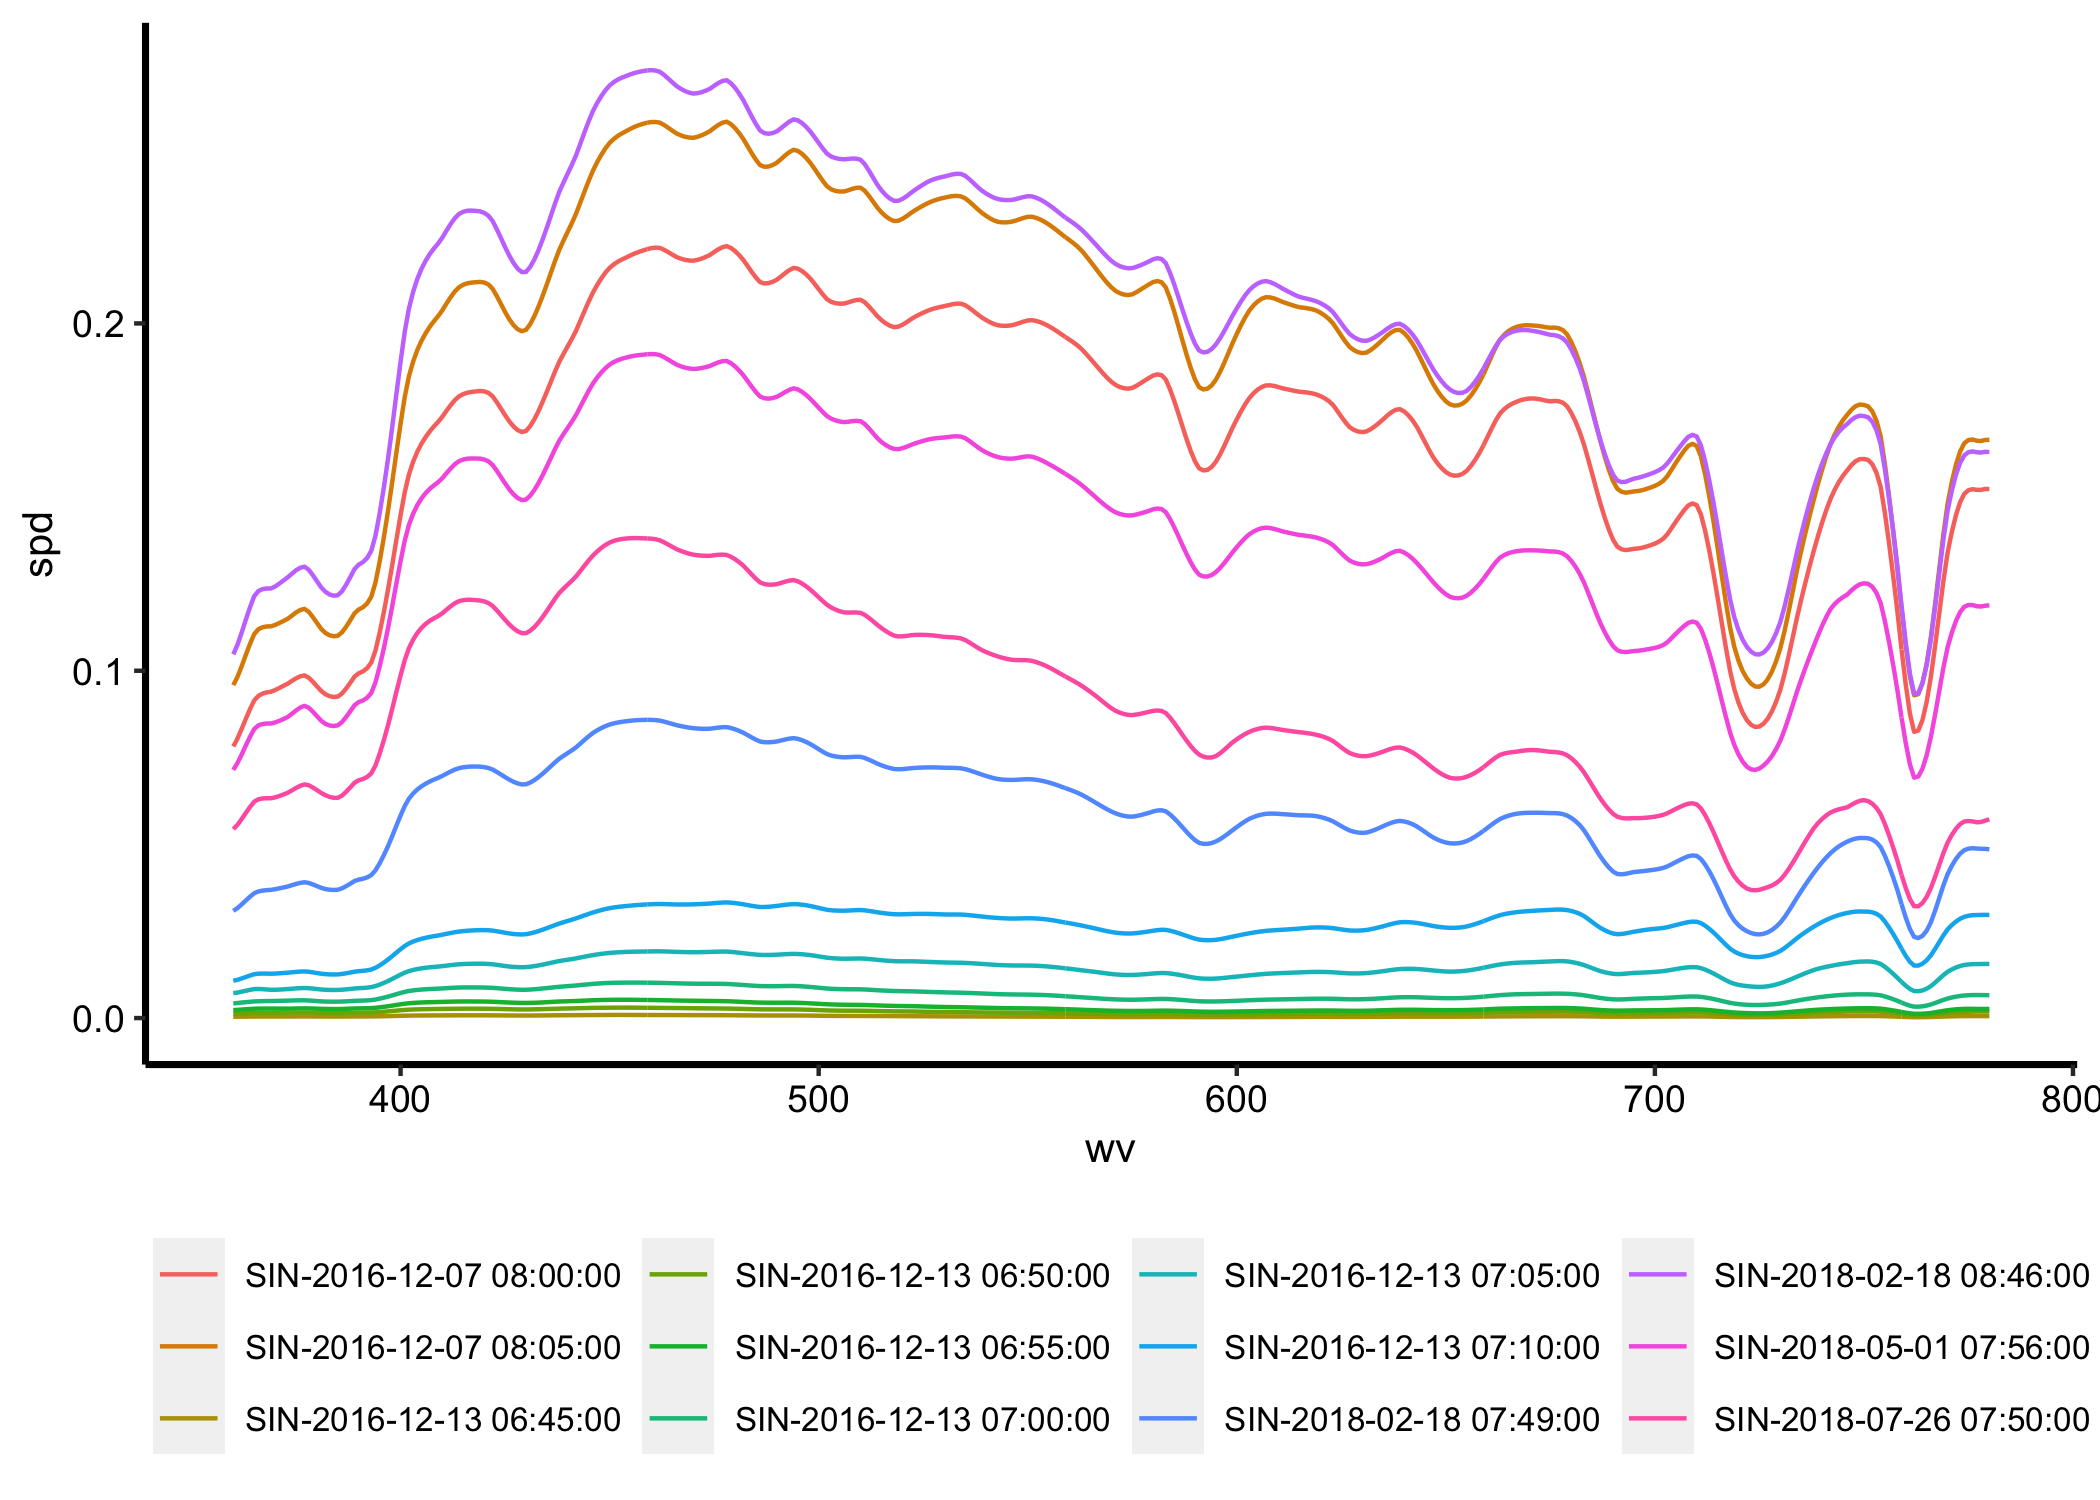
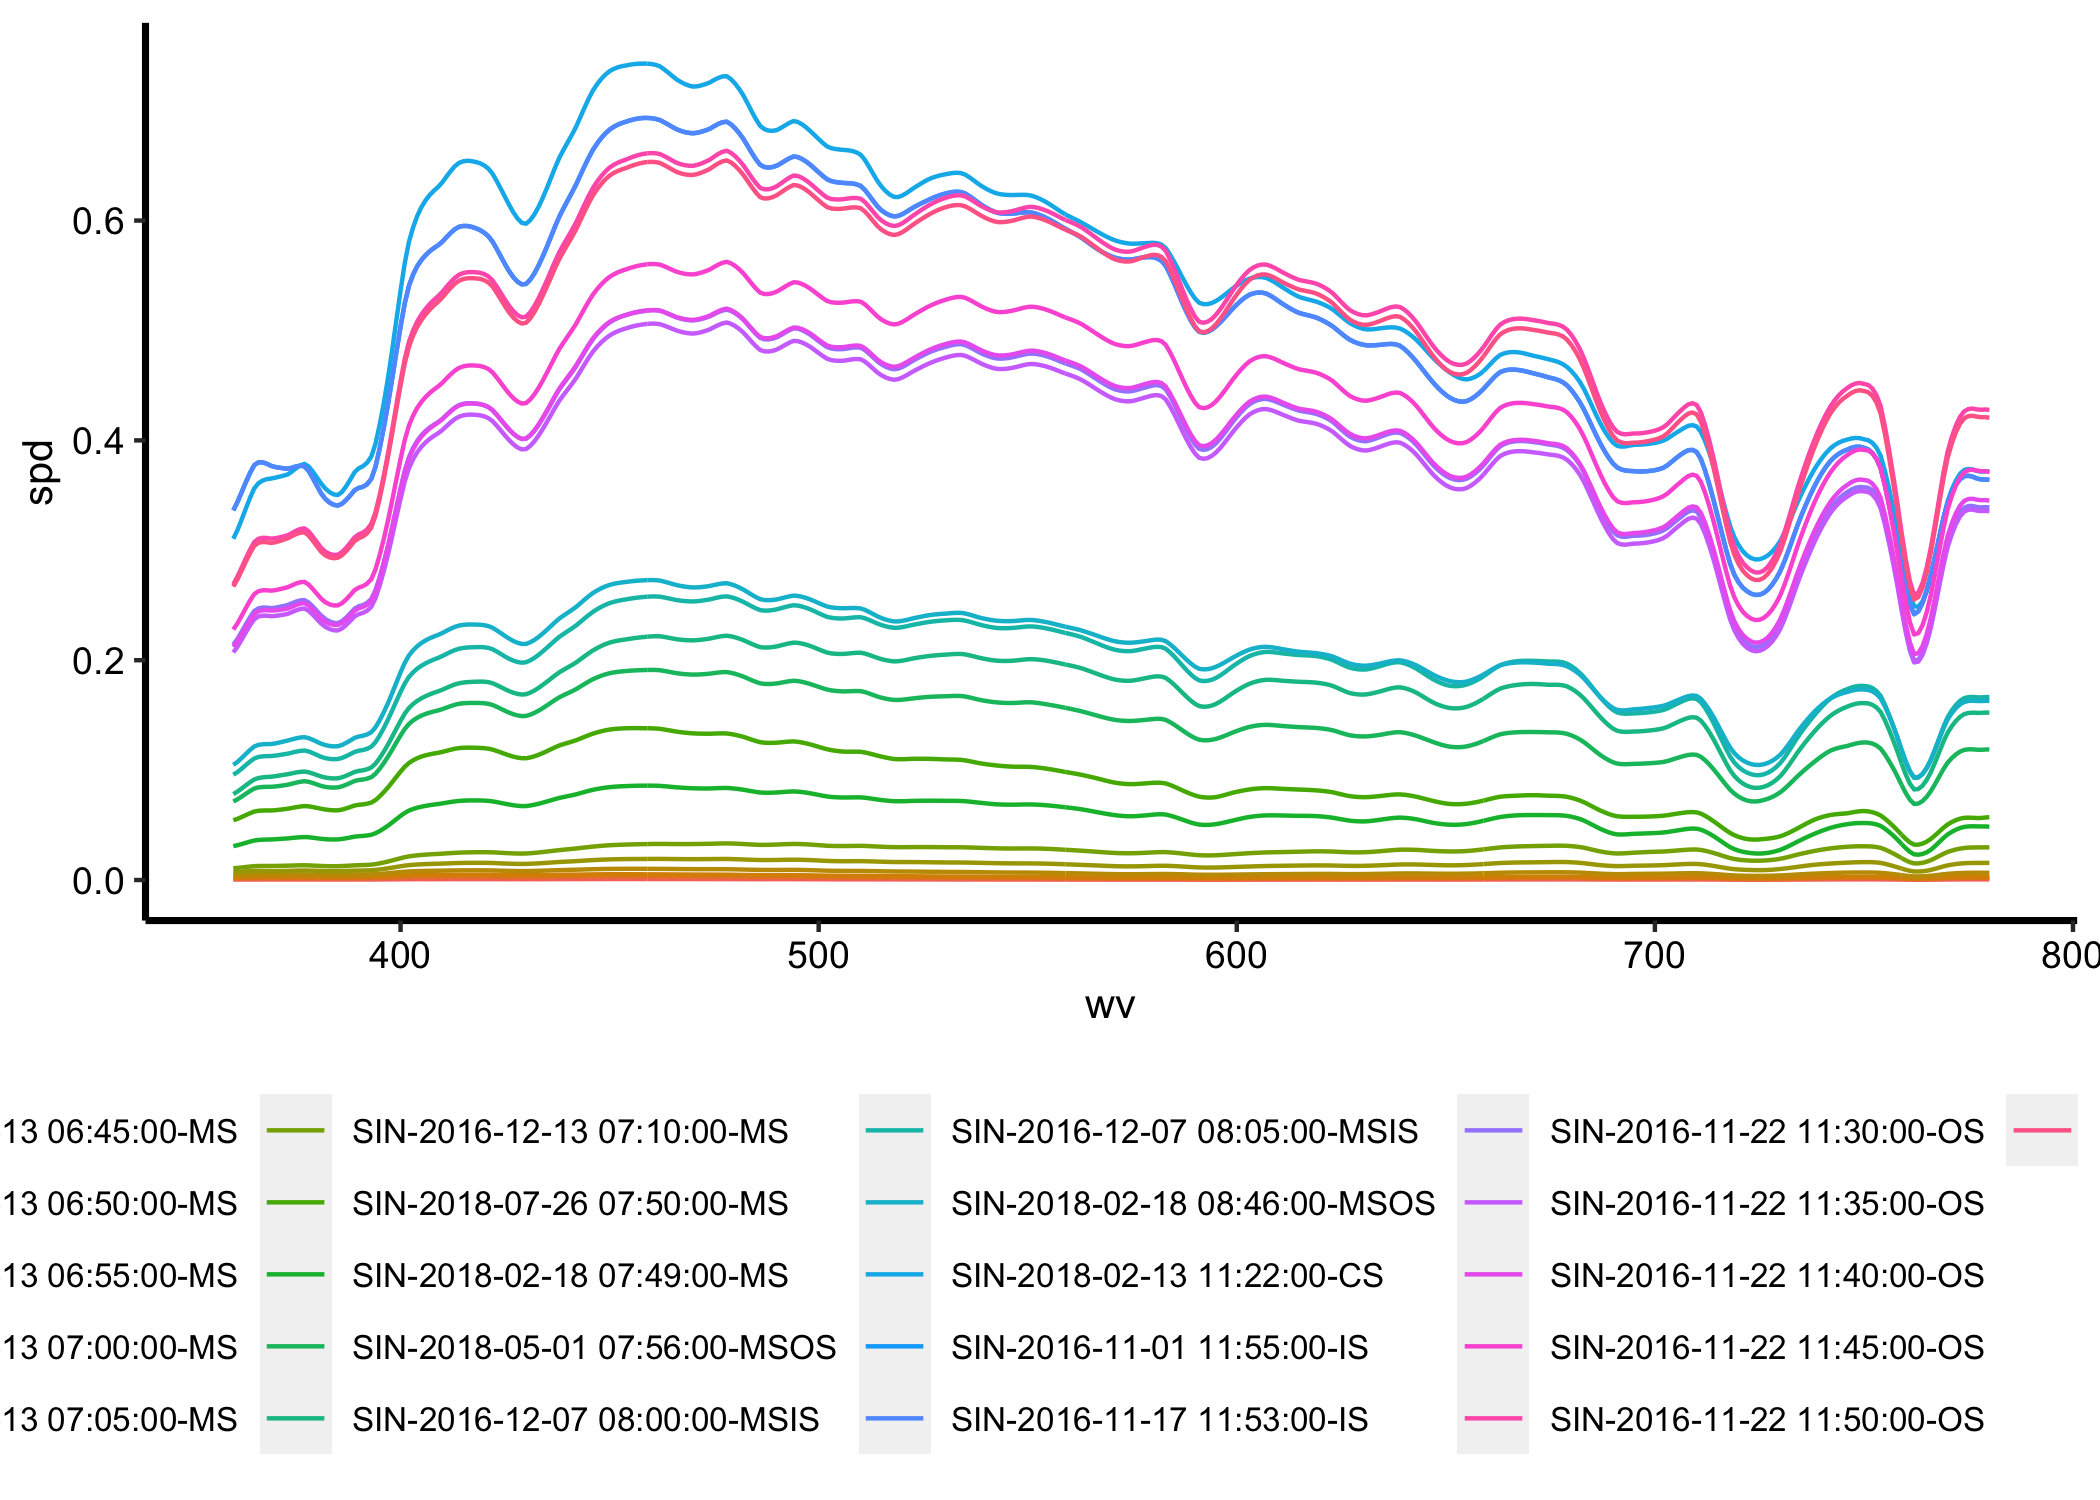
Add Readme; edit comparing spectral skies

diff --git a/notebooks/comparing_spectral_skies.md b/notebooks/comparing_spectral_skies.md
@@ -17,10 +17,11 @@ data.
 ``` r
 singapore_skies <- readRDS(here::here("resources/processed_data/singapore.rds"))
 berlin_skies <- readRDS(here::here("resources/processed_data/berlin.rds"))
+
 spectral_skies <- singapore_skies %>%
   bind_rows(berlin_skies) %>%
-  arrange(loc, datetime, wv) %>%
-  mutate(measurement = as_factor(str_c(loc, as.character(datetime), sep="-")))
+  arrange(loc, hour(datetime), SkyType, wv) %>%
+  mutate(measurement = as_factor(str_c(loc, as.character(datetime), SkyType, sep="-")))
 ```
 
     ## Warning in bind_rows_(x, .id): binding factor and character vector, coercing
@@ -29,46 +30,46 @@ spectral_skies <- singapore_skies %>%
     ## Warning in bind_rows_(x, .id): binding character and factor vector, coercing
     ## into character vector
 
-All experiments:
+All
+    experiments:
 
 ``` r
 levels(spectral_skies$measurement)
 ```
 
-    ##  [1] "BER-2019-02-25 09:07:00" "BER-2019-02-25 12:00:00"
-    ##  [3] "BER-2019-02-25 15:00:00" "SIN-2016-11-01 11:55:00"
-    ##  [5] "SIN-2016-11-17 11:53:00" "SIN-2016-11-18 13:20:00"
-    ##  [7] "SIN-2016-11-18 13:25:00" "SIN-2016-11-18 13:30:00"
-    ##  [9] "SIN-2016-11-18 13:35:00" "SIN-2016-11-18 13:40:00"
-    ## [11] "SIN-2016-11-18 13:50:00" "SIN-2016-11-18 13:55:00"
-    ## [13] "SIN-2016-11-18 14:00:00" "SIN-2016-11-21 16:20:00"
-    ## [15] "SIN-2016-11-21 16:25:00" "SIN-2016-11-21 16:30:00"
-    ## [17] "SIN-2016-11-22 11:30:00" "SIN-2016-11-22 11:35:00"
-    ## [19] "SIN-2016-11-22 11:40:00" "SIN-2016-11-22 11:45:00"
-    ## [21] "SIN-2016-11-22 11:50:00" "SIN-2016-11-22 11:55:00"
-    ## [23] "SIN-2016-11-22 12:00:00" "SIN-2016-12-07 08:00:00"
-    ## [25] "SIN-2016-12-07 08:05:00" "SIN-2016-12-13 06:45:00"
-    ## [27] "SIN-2016-12-13 06:50:00" "SIN-2016-12-13 06:55:00"
-    ## [29] "SIN-2016-12-13 07:00:00" "SIN-2016-12-13 07:05:00"
-    ## [31] "SIN-2016-12-13 07:10:00" "SIN-2016-12-16 19:00:00"
-    ## [33] "SIN-2016-12-16 19:10:00" "SIN-2016-12-16 19:15:00"
-    ## [35] "SIN-2017-04-06 18:07:00" "SIN-2018-02-13 11:22:00"
-    ## [37] "SIN-2018-02-18 07:49:00" "SIN-2018-02-18 08:46:00"
-    ## [39] "SIN-2018-02-18 18:42:00" "SIN-2018-05-01 07:56:00"
-    ## [41] "SIN-2018-05-24 12:39:00" "SIN-2018-05-28 13:24:00"
-    ## [43] "SIN-2018-07-21 14:01:00" "SIN-2018-07-25 18:46:00"
-    ## [45] "SIN-2018-07-26 07:50:00" "SIN-2018-07-28 15:11:00"
-    ## [47] "SIN-2018-08-11 18:45:00"
+    ##  [1] "BER-2019-02-25 09:07:00-CS"   "BER-2019-02-25 12:00:00-CS"  
+    ##  [3] "BER-2019-02-25 15:00:00-CS"   "SIN-2016-12-13 06:45:00-MS"  
+    ##  [5] "SIN-2016-12-13 06:50:00-MS"   "SIN-2016-12-13 06:55:00-MS"  
+    ##  [7] "SIN-2016-12-13 07:00:00-MS"   "SIN-2016-12-13 07:05:00-MS"  
+    ##  [9] "SIN-2016-12-13 07:10:00-MS"   "SIN-2018-07-26 07:50:00-MS"  
+    ## [11] "SIN-2018-02-18 07:49:00-MS"   "SIN-2018-05-01 07:56:00-MSOS"
+    ## [13] "SIN-2016-12-07 08:00:00-MSIS" "SIN-2016-12-07 08:05:00-MSIS"
+    ## [15] "SIN-2018-02-18 08:46:00-MSOS" "SIN-2018-02-13 11:22:00-CS"  
+    ## [17] "SIN-2016-11-01 11:55:00-IS"   "SIN-2016-11-17 11:53:00-IS"  
+    ## [19] "SIN-2016-11-22 11:30:00-OS"   "SIN-2016-11-22 11:35:00-OS"  
+    ## [21] "SIN-2016-11-22 11:40:00-OS"   "SIN-2016-11-22 11:45:00-OS"  
+    ## [23] "SIN-2016-11-22 11:50:00-OS"   "SIN-2016-11-22 11:55:00-OS"  
+    ## [25] "SIN-2018-05-24 12:39:00-CS"   "SIN-2016-11-22 12:00:00-OS"  
+    ## [27] "SIN-2016-11-18 13:20:00-IS"   "SIN-2016-11-18 13:25:00-IS"  
+    ## [29] "SIN-2016-11-18 13:30:00-IS"   "SIN-2016-11-18 13:35:00-IS"  
+    ## [31] "SIN-2016-11-18 13:40:00-IS"   "SIN-2016-11-18 13:50:00-IS"  
+    ## [33] "SIN-2016-11-18 13:55:00-IS"   "SIN-2018-05-28 13:24:00-OS"  
+    ## [35] "SIN-2016-11-18 14:00:00-IS"   "SIN-2018-07-21 14:01:00-OS"  
+    ## [37] "SIN-2018-07-28 15:11:00-CS"   "SIN-2016-11-21 16:20:00-IS"  
+    ## [39] "SIN-2016-11-21 16:25:00-IS"   "SIN-2016-11-21 16:30:00-IS"  
+    ## [41] "SIN-2018-07-25 18:46:00-ES"   "SIN-2018-08-11 18:45:00-ES"  
+    ## [43] "SIN-2018-02-18 18:42:00-ES"   "SIN-2017-04-06 18:07:00-ES"  
+    ## [45] "SIN-2016-12-16 19:15:00-ESCS" "SIN-2016-12-16 19:00:00-ESCS"
+    ## [47] "SIN-2016-12-16 19:10:00-ESCS"
 
 The following notebook expects data according to the following schema:
 
-  - `MonthYear`: date format
-  - `Time`: time format
   - `wv`
   - `spd`
   - `SkyType`
   - `CCT`
   - `loc`
+  - `datetime`: date format
 
 ## Comparison between different Singapore morning skies
 
@@ -76,7 +77,7 @@ We subset the data to get measurements in Singapore during the morning.
 
 ``` r
 singapore_morning <- spectral_skies %>%
-  filter(loc == "SIN", hour(datetime) <= 9)
+  filter(loc == "SIN", hour(datetime) <= 11)
 ```
 
 ``` r
@@ -88,3 +89,39 @@ singapore_morning %>%
 ![](comparing_spectral_skies_files/figure-gfm/unnamed-chunk-6-1.png)<!-- -->
 
 ## Comparison between Singapore and Berlin
+
+``` r
+mornings <- spectral_skies %>%
+  filter(SkyType == "CS" | str_starts(SkyType, "MS"), hour(datetime) >= 7, hour(datetime) <= 10,
+         loc == "BER" | (loc == "SIN" & month(datetime) == 2))
+```
+
+``` r
+mornings <- spectral_skies %>%
+  filter(hour(datetime) >= 7, hour(datetime) <= 10,
+         loc == "BER" | (loc == "SIN" & month(datetime) == 2))
+```
+
+``` r
+mornings %>%
+  ggplot() +
+  geom_line(aes(x = wv, y = spd, group = measurement, color = measurement))
+```
+
+![](comparing_spectral_skies_files/figure-gfm/unnamed-chunk-9-1.png)<!-- -->
+
+``` r
+mornings %>%
+  filter(wv == 560) %>%
+  select(wv, measurement, spd) %>%
+  inner_join(mornings, by = c("measurement")) %>%
+  mutate(normalised_spd = spd.y / spd.x) %>%
+  select(-wv.x, -spd.x, wv = wv.y, spd = spd.y) %>%
+  ggplot() +
+  geom_line(aes(x = wv, y = normalised_spd, group = measurement, color = measurement)) +
+  geom_vline(xintercept = 725, linetype = 3, size = 0.2)+
+  annotate(geom = "text", x = 725, y = 1.2, label = "Water vapour  725nm", 
+           color = "black", angle = 90, size = 2.7, hjust = 1, vjust = -0.4)
+```
+
+![](comparing_spectral_skies_files/figure-gfm/unnamed-chunk-10-1.png)<!-- -->

diff --git a/README.md b/README.md
@@ -1,0 +1,8 @@
+# Global Spectral Skies
+
+Spectral sky measurements from different locations and conditions.
+
+## Notebooks
+
+- [Preparing the Berlin data](notebooks/processing-berlin-data.md)
+- [Comparing spectral skies (in progress)](notebooks/comparing-spectral-skies.md)
